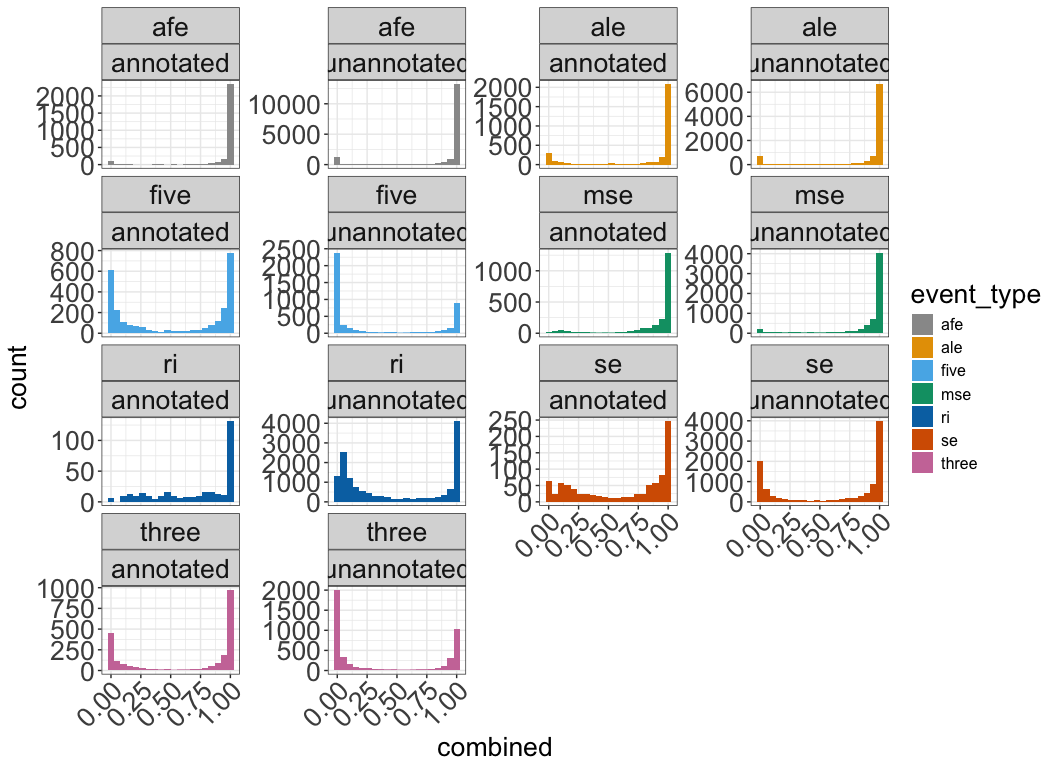
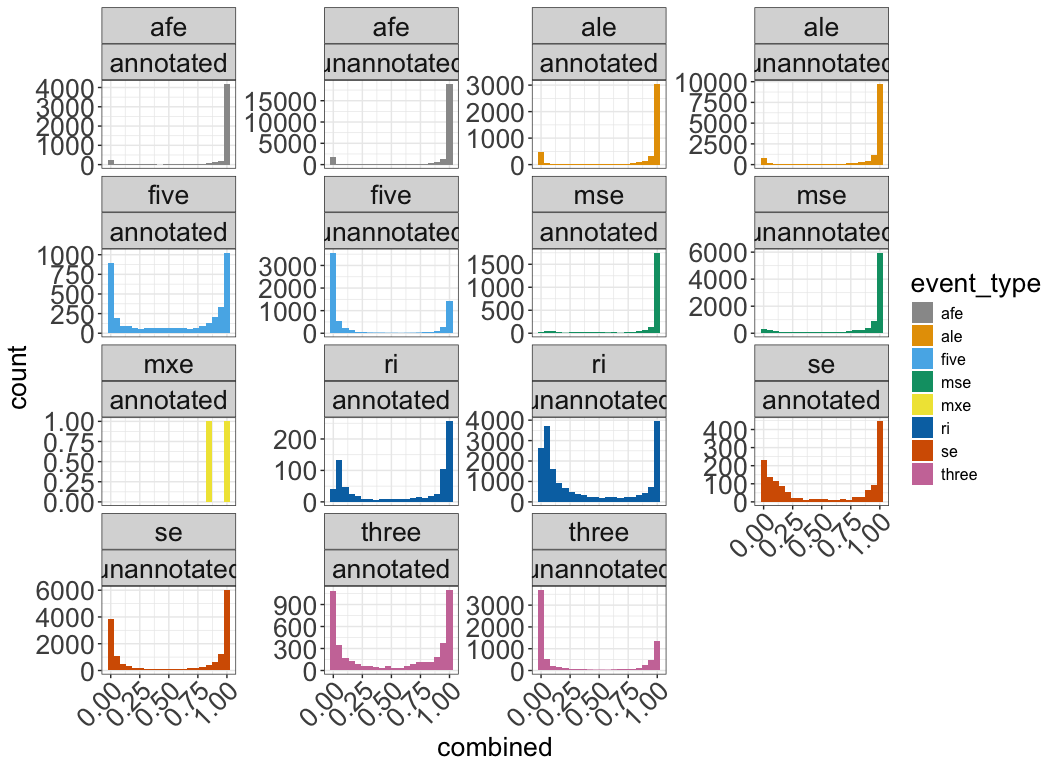
stage subsetted sample-level results

Changed region(s): [[0.0312, 0.0, 1.0, 0.9688], [0.0312, 0.0938, 0.0938, 0.2188], [0.75, 0.125, 0.7812, 0.1562]]

diff --git a/exploration/merging-psi-tables/target_pilot/compare_merged_psi_table.md b/exploration/merging-psi-tables/target_pilot/compare_merged_psi_table.md
@@ -1,6 +1,6 @@
 # Compare merged PSI table from TARGET pilot samples
 Cindy Liang (celiang@ucsc.edu)
-2026-05-06
+2026-05-07
 
 **Question:** Does merging separate splice tables cause us to lose out
 on the trustworthiness of unannotated events to an extent that it
@@ -140,13 +140,12 @@ plot_event_summary <- function(
 # pivot event-level df long
 pivot_long <- function (wide_event_df) {
   wide_event_df |>
-    dplyr::slice_sample(n = 10000) |>
+    dplyr::slice_sample(n = 15000) |>
     dplyr::select(starts_with("SRR"), event_type, pos_id, label) |>
-  tidyr::pivot_longer(
-    cols = matches("_combined|_separate"),
-    names_to = c("sample", "method"),
-    values_to = "PSI",
-    names_pattern = "(.*)_(combined|separate)"
+    tidyr::pivot_longer(
+      cols = matches("_PSI_(combined|separate)$"),
+      names_to = c("sample", ".value"),
+      names_pattern = "(.*)_PSI_(combined|separate)"
   )}
 
 # event summary plots of frequency of events in each category
@@ -181,23 +180,9 @@ event_summary <- function(
     )
 }
 
-# pivoting PSI values in long df wider for XY plots
-sample_level_psi_comparison <- function(long_df) {
-  long_df |>
-    # I'd think this line would eliminate the combined/separate unmatched values NAs (NA NAs) but it does not
-     tidyr::drop_na() |>
-    # Select for relevant columns in long sample-level table for matchup analysis
-    dplyr::select(pos_id, sample, method, PSI, event_type, label) |>
-    # pivot PSI values from each method wider so XY scatterplots can be plotted
-    tidyr::pivot_wider(
-      names_from = method,
-      values_from = PSI
-  )
-}
-
 # Create summary table of number and percentage of events in each PSI-NA matchup category
-na_comparison_summary <- function(sample_wide_df) {
-  sample_wide_df |>
+na_comparison_summary <- function(long_df) {
+  long_df |>
     # try to get rid of the NA NAs here
     tidyr::drop_na() |>
     dplyr::mutate(
@@ -600,8 +585,22 @@ long_all_events <- pivot_long(all_events)
 colnames(long_all_events)
 ```
 
-    [1] "event_type" "pos_id"     "label"      "sample"     "method"    
-    [6] "PSI"       
+    [1] "event_type" "pos_id"     "label"      "sample"     "combined"  
+    [6] "separate"  
+
+``` r
+# check some smaples
+head(long_all_events)
+```
+
+| event_type | pos_id | label | sample | combined | separate |
+|:---|:---|:---|:---|---:|---:|
+| ale | ALE@chr2@70889588-70889821;70888348-70889476@70888348-70888635 | annotated | SRR1559043 | -1 | -2 |
+| ale | ALE@chr2@70889588-70889821;70888348-70889476@70888348-70888635 | annotated | SRR1559044 | -1 | -2 |
+| ale | ALE@chr2@70889588-70889821;70888348-70889476@70888348-70888635 | annotated | SRR1559052 | -1 | -2 |
+| ale | ALE@chr2@70889588-70889821;70888348-70889476@70888348-70888635 | annotated | SRR1559054 | -1 | -2 |
+| ale | ALE@chr2@70889588-70889821;70888348-70889476@70888348-70888635 | annotated | SRR1559075 | -1 | -1 |
+| ale | ALE@chr2@70889588-70889821;70888348-70889476@70888348-70888635 | annotated | SRR1559100 | -1 | -2 |
 
 ### Examine relationships between of PSI and NA values of combined and separate tables
 
@@ -613,22 +612,6 @@ couple values that had -2 PSI values in the separate table and -1 in the
 combined table. But it was hard to get a sense of all the possible
 separate - combined PSI value and NA combinations
 
-Pivot long df wider to make XY scatterplots of values
-
-``` r
-na_comparison_samples <- sample_level_psi_comparison(long_all_events)
-head(na_comparison_samples)
-```
-
-| pos_id | sample | event_type | label | separate | combined |
-|:---|:---|:---|:---|---:|---:|
-| ALE@chrY@13234826-13251017;13251187-13260278;13260404-13297707;13297848-13298957;13299144-13302877;13302991-13305399;13305547-13306038;13306112-13306186;13306250-13323555;13323760-13324601;13324706-13326221;13326350-13335563;13336335-13355003;13355398-13355923;13356018-13357877;13357969-13359767;13359986-13360430;13360528-13366267;13366393-13369256;13369349-13393859;13393893-13396918;13396972-13410993;13411113-13414735;13414793-13449017;13449066-13470121@13465256-13470121 | SRR1559043_PSI | ale | unannotated | -2 | NA |
-| ALE@chrY@13234826-13251017;13251187-13260278;13260404-13297707;13297848-13298957;13299144-13302877;13302991-13305399;13305547-13306038;13306112-13306186;13306250-13323555;13323760-13324601;13324706-13326221;13326350-13335563;13336335-13355003;13355398-13355923;13356018-13357877;13357969-13359767;13359986-13360430;13360528-13366267;13366393-13369256;13369349-13393859;13393893-13396918;13396972-13410993;13411113-13414735;13414793-13449017;13449066-13470121@13465256-13470121 | SRR1559044_PSI | ale | unannotated | -2 | NA |
-| ALE@chrY@13234826-13251017;13251187-13260278;13260404-13297707;13297848-13298957;13299144-13302877;13302991-13305399;13305547-13306038;13306112-13306186;13306250-13323555;13323760-13324601;13324706-13326221;13326350-13335563;13336335-13355003;13355398-13355923;13356018-13357877;13357969-13359767;13359986-13360430;13360528-13366267;13366393-13369256;13369349-13393859;13393893-13396918;13396972-13410993;13411113-13414735;13414793-13449017;13449066-13470121@13465256-13470121 | SRR1559052_PSI | ale | unannotated | -2 | NA |
-| ALE@chrY@13234826-13251017;13251187-13260278;13260404-13297707;13297848-13298957;13299144-13302877;13302991-13305399;13305547-13306038;13306112-13306186;13306250-13323555;13323760-13324601;13324706-13326221;13326350-13335563;13336335-13355003;13355398-13355923;13356018-13357877;13357969-13359767;13359986-13360430;13360528-13366267;13366393-13369256;13369349-13393859;13393893-13396918;13396972-13410993;13411113-13414735;13414793-13449017;13449066-13470121@13465256-13470121 | SRR1559054_PSI | ale | unannotated | -2 | NA |
-| ALE@chrY@13234826-13251017;13251187-13260278;13260404-13297707;13297848-13298957;13299144-13302877;13302991-13305399;13305547-13306038;13306112-13306186;13306250-13323555;13323760-13324601;13324706-13326221;13326350-13335563;13336335-13355003;13355398-13355923;13356018-13357877;13357969-13359767;13359986-13360430;13360528-13366267;13366393-13369256;13369349-13393859;13393893-13396918;13396972-13410993;13411113-13414735;13414793-13449017;13449066-13470121@13465256-13470121 | SRR1559075_PSI | ale | unannotated | -2 | NA |
-| ALE@chrY@13234826-13251017;13251187-13260278;13260404-13297707;13297848-13298957;13299144-13302877;13302991-13305399;13305547-13306038;13306112-13306186;13306250-13323555;13323760-13324601;13324706-13326221;13326350-13335563;13336335-13355003;13355398-13355923;13356018-13357877;13357969-13359767;13359986-13360430;13360528-13366267;13366393-13369256;13369349-13393859;13393893-13396918;13396972-13410993;13411113-13414735;13414793-13449017;13449066-13470121@13465256-13470121 | SRR1559100_PSI | ale | unannotated | -2 | NA |
-
 Even though my function should drop NAs, I still get NAs in the separate
 PSI column. If I try to drop NAs at the end, I get en error that the
 datframe contains list-cols (Warning: Values from `PSI` are not uniquely
@@ -636,11 +619,11 @@ identified; output will contain list-cols.)
 
 ``` r
 # plot basic scatterplot to see the different PSI value / NA matchup categories in the data
-ggplot(na_comparison_samples, aes(x = combined, y = separate)) +
+ggplot(long_all_events, aes(x = combined, y = separate)) +
   geom_point()
 ```
 
-    Warning: Removed 230736 rows containing missing values or values outside the scale range
+    Warning: Removed 335016 rows containing missing values or values outside the scale range
     (`geom_point()`).
 
 ![](compare_merged_psi_table_files/figure-commonmark/psi_na_matchup_categories-1.png)
@@ -668,15 +651,15 @@ Summarize how many of each of these match categories are present in the
 pilot tables
 
 ``` r
-na_comparison_summary(na_comparison_samples)
+na_comparison_summary(long_all_events)
 ```
 
 | match_category                        |  count |  total |  percent |
 |:--------------------------------------|-------:|-------:|---------:|
-| both numeric PSIs                     | 139582 | 649000 | 21.50724 |
-| both Shiba NAs                        | 124449 | 649000 | 19.17550 |
-| separate dropped, combined shiba NA   | 304655 | 649000 | 46.94222 |
-| numeric PSI dropped in separate table |  80314 | 649000 | 12.37504 |
+| separate dropped, combined shiba NA   | 467278 | 984984 | 47.44016 |
+| both Shiba NAs                        | 189407 | 984984 | 19.22945 |
+| numeric PSI dropped in separate table | 118035 | 984984 | 11.98344 |
+| both numeric PSIs                     | 210264 | 984984 | 21.34695 |
 
 So ~12% of all unique samples/event combinations that have events with a
 “ground truth” numeric PSI value which gets dropped in Shiba
@@ -688,19 +671,16 @@ pilot tables, filtered for events with numeric PSI in min_samples
 # pivot min_sample filtered event-level df longer
 long_min_sample_all_events <- pivot_long(min_samples_events)
 
-# pivot long df wider
-na_comparison_min_samples <- sample_level_psi_comparison(long_min_sample_all_events)
-
 # create summary table of match categories
-na_comparison_summary(na_comparison_min_samples)
+na_comparison_summary(long_min_sample_all_events)
 ```
 
-| match_category                        |  count |  total |  percent |
-|:--------------------------------------|-------:|-------:|---------:|
-| separate dropped, combined shiba NA   | 223832 | 880000 | 25.43545 |
-| both Shiba NAs                        | 173868 | 880000 | 19.75773 |
-| both numeric PSIs                     | 305080 | 880000 | 34.66818 |
-| numeric PSI dropped in separate table | 177220 | 880000 | 20.13864 |
+| match_category                        |  count |   total |  percent |
+|:--------------------------------------|-------:|--------:|---------:|
+| both numeric PSIs                     | 458607 | 1320000 | 34.74295 |
+| both Shiba NAs                        | 262894 | 1320000 | 19.91621 |
+| separate dropped, combined shiba NA   | 338292 | 1320000 | 25.62818 |
+| numeric PSI dropped in separate table | 260207 | 1320000 | 19.71265 |
 
 In both tables, the majority of NAs are from low counts. There is a
 higher percentage of numeric PSIs that we lose out on in the separate
@@ -710,14 +690,14 @@ table, even with the min_samples filter.
 
 ``` r
 # plot PSI distributions of events in combined dataframe
-psi_values_lost_in_separate(na_comparison_samples)
+psi_values_lost_in_separate(long_all_events)
 ```
 
 ![](compare_merged_psi_table_files/figure-commonmark/psi_dist_of_combined_only_events-1.png)
 
 ``` r
 # plot PSI distributions of events in combined dataframe
-psi_values_lost_in_separate(na_comparison_min_samples)
+psi_values_lost_in_separate(long_min_sample_all_events)
 ```
 
 ![](compare_merged_psi_table_files/figure-commonmark/psi_dist_of_combined_only_events_min_samples-1.png)
